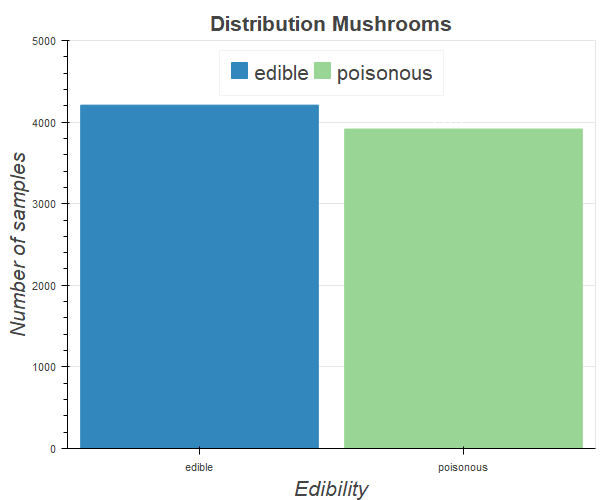
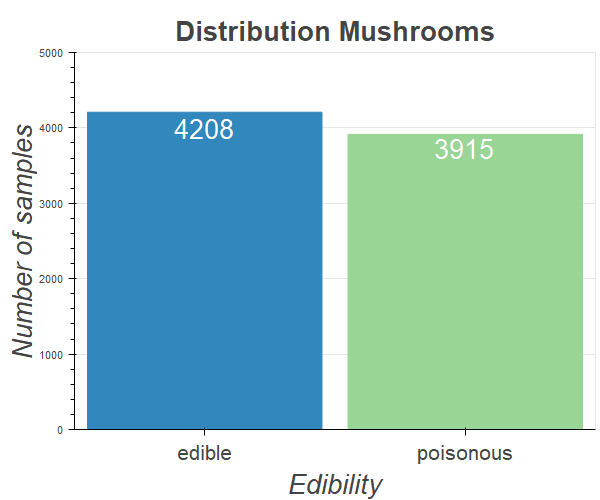
adapted pics

diff --git a/coding/E0WineClassification.py b/coding/E0WineClassification.py
@@ -23,7 +23,6 @@ from bokeh.plotting import figure
 from bokeh.models import ColumnDataSource, Label, Range1d
 from bokeh.palettes import Spectral11
 
-"""Wine Quality"""
 
 filename='data/wine_red.csv'
 
@@ -37,7 +36,7 @@ for elem in samples:
 
 source = ColumnDataSource(data=dict(classes=classes, counts=values, color=Spectral11))
 p = figure(x_range=classes, plot_height=500, title="Distribution Wine Quality", x_axis_label=('Quality Value'),y_axis_label=('Number of samples'), toolbar_location=None)
-p.vbar(x='classes', top='counts', width=0.9, color='color', legend="classes", source=source)
+p.vbar(x='classes', top='counts', width=0.9, color='color', source=source) #legend="classes"
 
 p.xgrid.grid_line_color = "white"
 p.y_range.start = 0
@@ -48,21 +47,29 @@ p.title.text_font_size = '16pt'
 
 p.xaxis.axis_label_text_font_size = "16pt"
 p.yaxis.axis_label_text_font_size = "16pt" 
-p.legend.label_text_font_size = "16pt"
+p.xaxis.major_label_text_font_size = "14pt"
+
+#p.legend.label_text_font_size = "16pt"
 p.y_range=Range1d(0,850)
 
-p.legend.location = "top_left"
-p.legend.orientation = "horizontal"
-p.legend.location = "top_center"
+#p.legend.location = "top_left"
+#p.legend.orientation = "horizontal"
+#p.legend.location = "top_center"
 
 for i in range(11):
-    if i == 0:
-        p.add_layout(Label(x=20, y=int(values[i]), x_units='screen', y_units='screen', text=str(values[i]), text_color = "black"))
-    elif values[i]<10:
-        p.add_layout(Label(x=i*52, y=int(values[i]), x_units='screen', y_units='screen', text=str(values[i]), text_color = "black"))
+    if i < 3:
+        p.add_layout(Label(x=20+49*i, y=int(values[i]), x_units='screen', y_units='screen', text=str(values[i]), text_color = "black"))   
+    elif i == 9 or i ==10:
+        p.add_layout(Label(x=17+49*i, y=int(values[i]), x_units='screen', y_units='screen', text=str(values[i]), text_color = "black"))   
+    elif i==4:
+        p.add_layout(Label(x=15+49*i, y=int(values[i]/2), x_units='screen', y_units='screen', text=str(values[i]), text_color = "black"))
+    elif values[i]<20:
+        p.add_layout(Label(x=13+49*i, y=int(values[i]-8), x_units='screen', y_units='screen', text=str(values[i]), text_color = "black"))
     elif values[i]<100:
-        p.add_layout(Label(x=i*51, y=int(values[i]/2), x_units='screen', y_units='screen', text=str(values[i]), text_color = "black"))
+        p.add_layout(Label(x=10+49*i, y=int(values[i]/2), x_units='screen', y_units='screen', text=str(values[i]), text_color = "black"))
+    elif values[i]<200:
+        p.add_layout(Label(x=9+49*i, y=int(values[i]/2.09), x_units='screen', y_units='screen', text=str(values[i]), text_color = "black"))
     else:
-        p.add_layout(Label(x=i*50, y=int(values[i]/2.09), x_units='screen', y_units='screen', text=str(values[i]), text_color = "black"))
+        p.add_layout(Label(x=10+49*i, y=int(values[i]/2.09), x_units='screen', y_units='screen', text=str(values[i]), text_color = "black"))
 
 export_png(p, filename="pics/distribution_winequality.png")

diff --git a/coding/E0MushroomClassification.py b/coding/E0MushroomClassification.py
@@ -38,26 +38,29 @@ for elem in samples:
 
 source = ColumnDataSource(data=dict(classes=classes, counts=values, color=Spectral6[0:2]))
 p = figure(x_range=classes, plot_height=500, title="Distribution Mushrooms", x_axis_label=('Edibility'),y_axis_label=('Number of samples'), toolbar_location=None)
-p.vbar(x='classes', top='counts', width=0.9, color='color', legend="classes", source=source)
+p.vbar(x='classes', top='counts', width=0.9, color='color', source=source) #legend ="classes"
 
 p.xgrid.grid_line_color = "white"
 p.y_range.start = 0
 
 p.title_location = "above"
 p.title.align = 'center'
-p.title.text_font_size = '16pt'
+p.title.text_font_size = '20pt'
 
-p.xaxis.axis_label_text_font_size = "16pt"
-p.yaxis.axis_label_text_font_size = "16pt" 
-p.legend.label_text_font_size = "16pt"
+p.xaxis.axis_label_text_font_size = "20pt"
+p.yaxis.axis_label_text_font_size = "20pt" 
+p.xaxis.major_label_text_font_size = "16pt"
+
+
+#p.legend.label_text_font_size = "16pt"
 p.y_range=Range1d(0,5000)
 
-p.legend.location = "top_left"
-p.legend.orientation = "horizontal"
-p.legend.location = "top_center"
+#p.legend.location = "top_left"
+#p.legend.orientation = "horizontal"
+#p.legend.location = "top_center"
 
-citation1 = Label(x=110, y=350, x_units='screen', y_units='screen', text=str(values[0]), text_color = "white")
-citation2 = Label(x=360, y=320, x_units='screen', y_units='screen', text=str(values[1]), text_color = "white")
+citation1 = Label(x=100, y=285, x_units='screen', y_units='screen', text=str(values[0]), text_color = "white", text_font_size = "20pt")
+citation2 = Label(x=360, y=265, x_units='screen', y_units='screen', text=str(values[1]), text_color = "white", text_font_size = "20pt")
 
 p.add_layout(citation1)
 p.add_layout(citation2)
